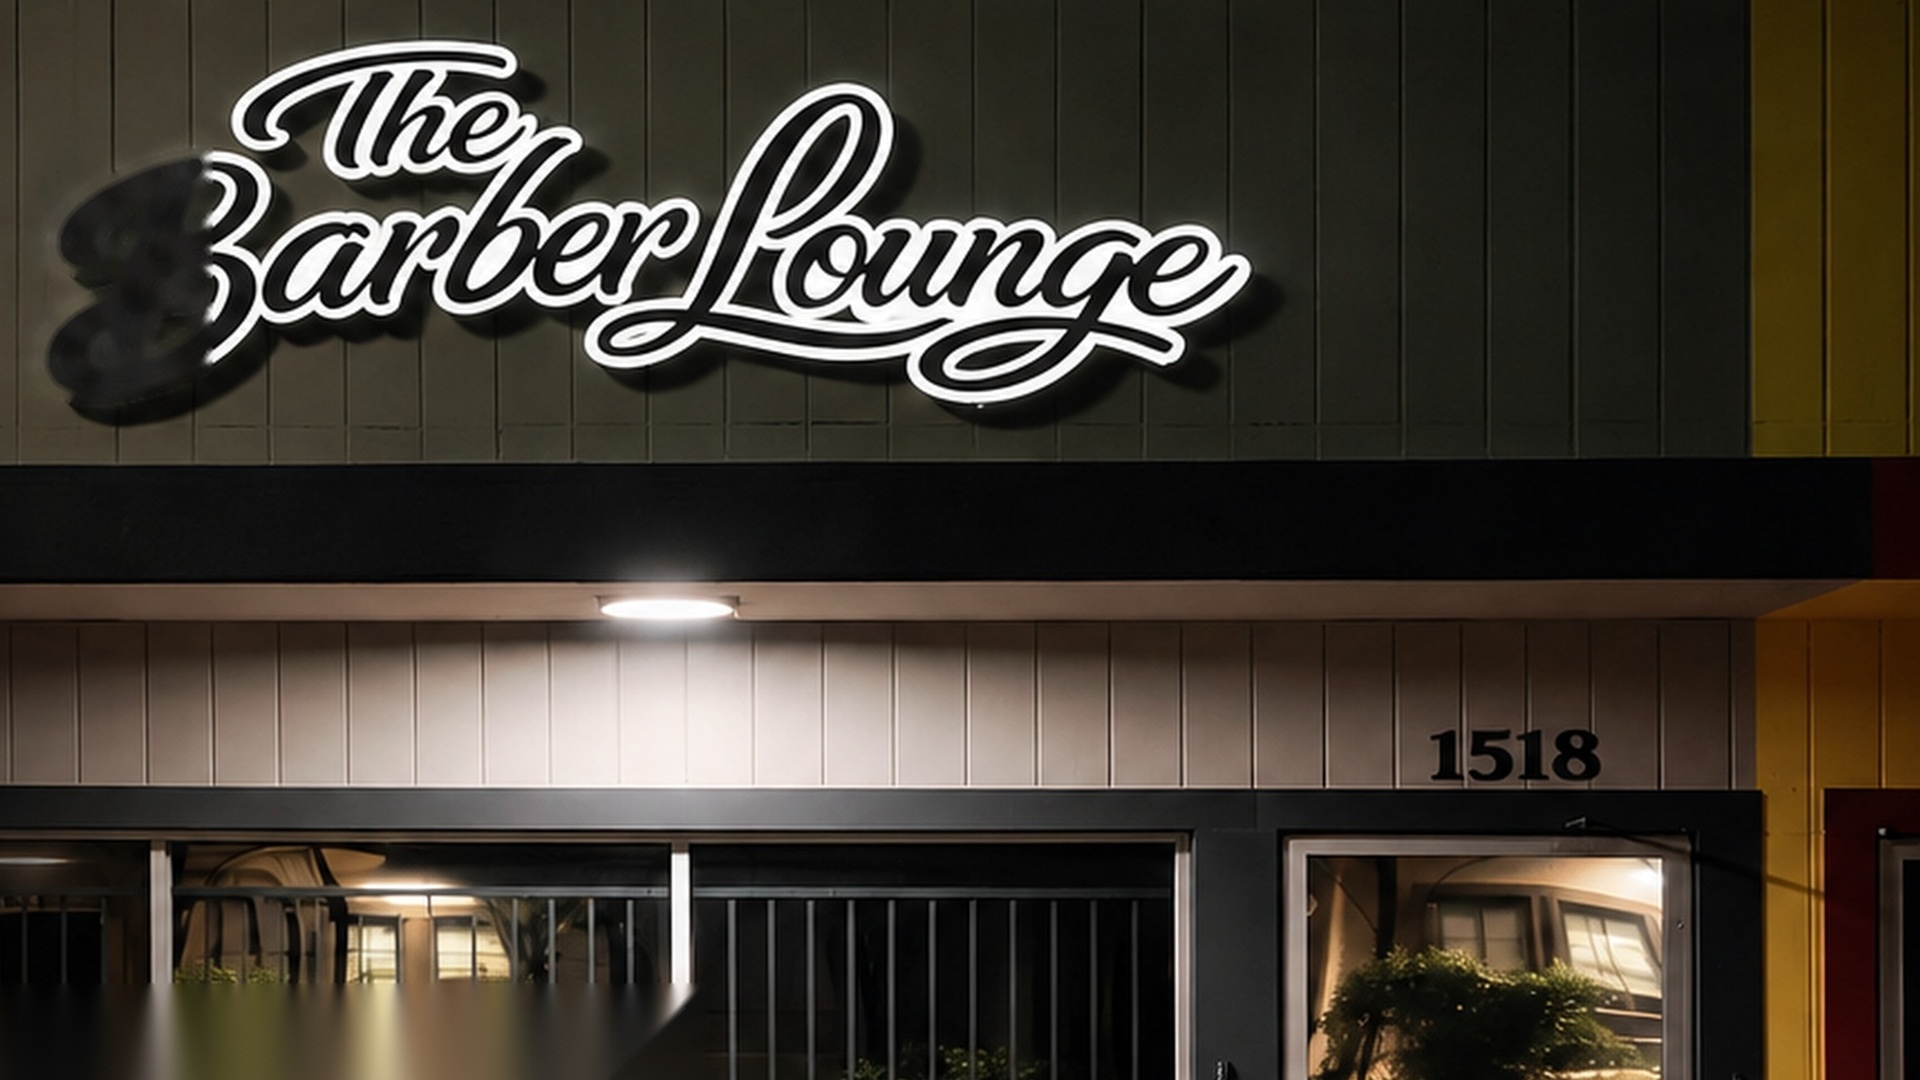
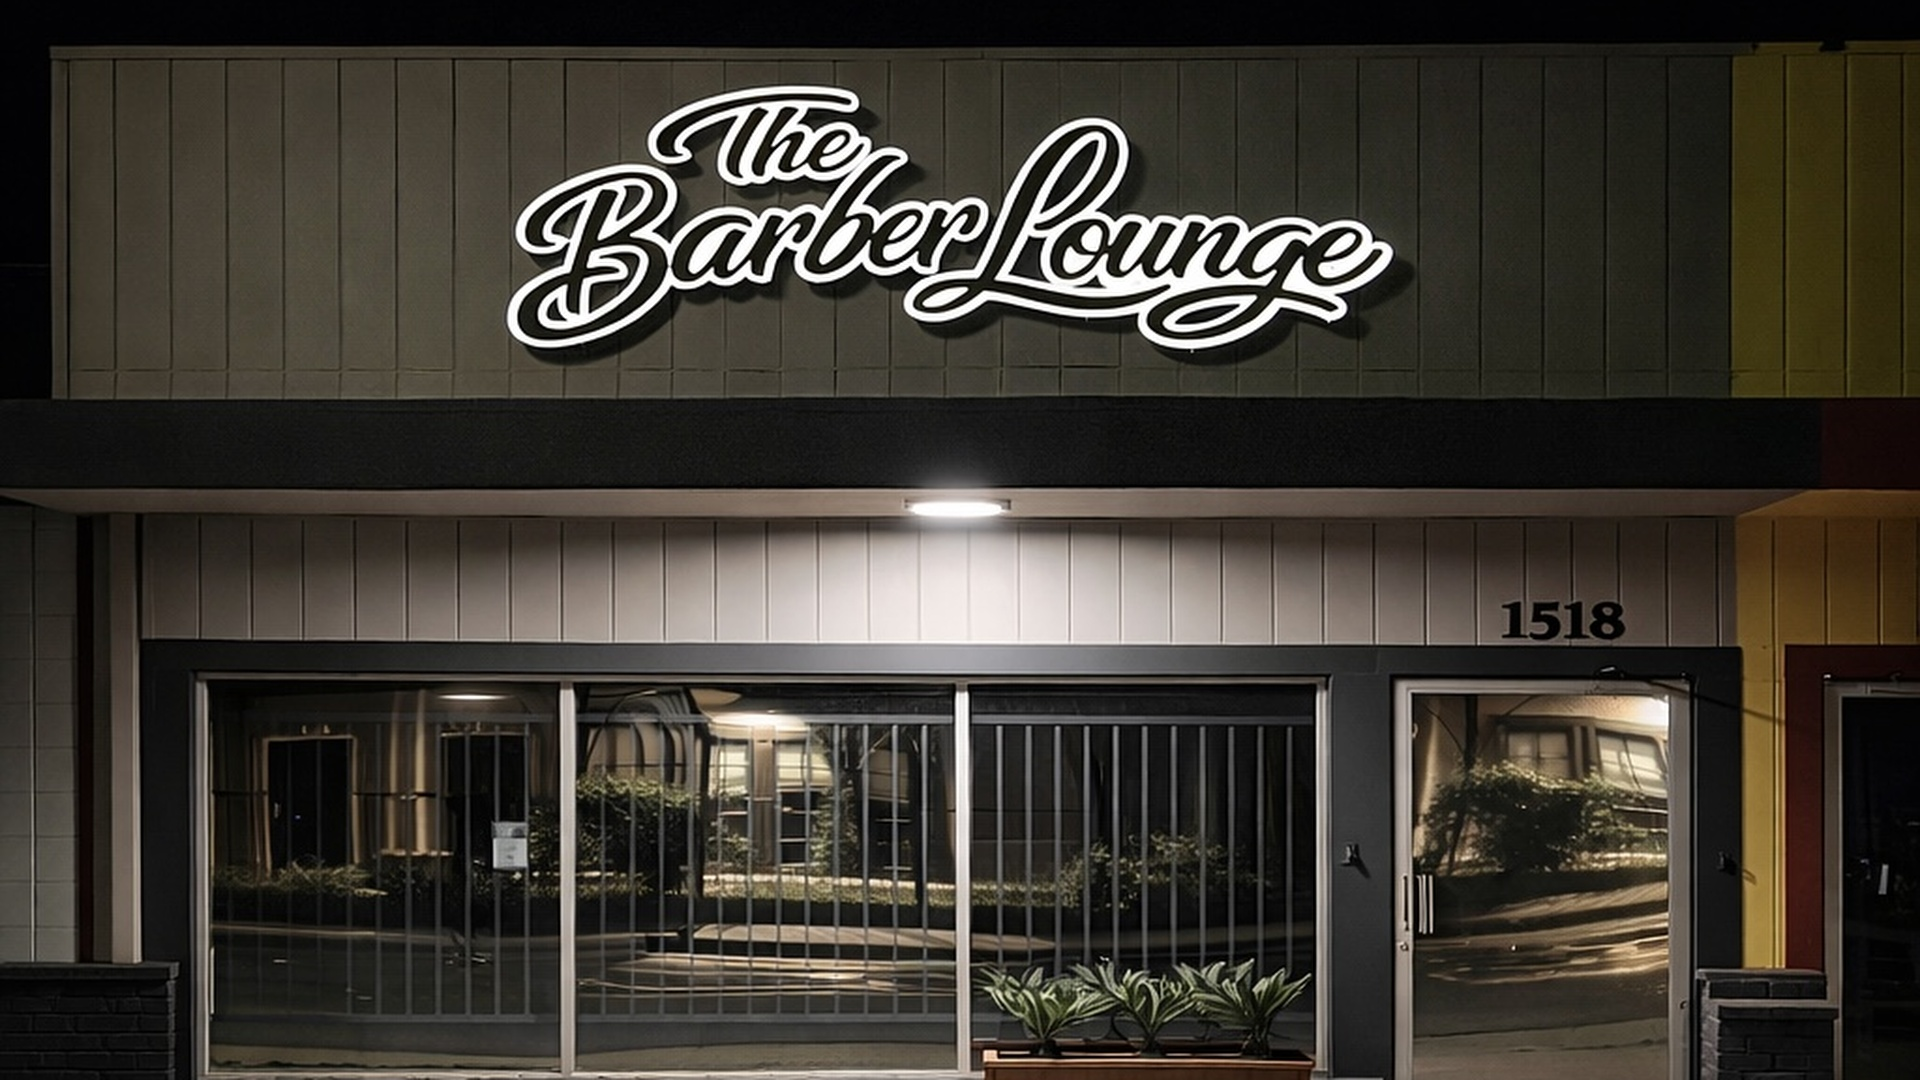
Swap hero to clean original night storefront photo
Replace the mockup crop with Cesar’s clear storefront shot and keep
the other shop originals under public/gallery/shop for later sections.

diff --git a/src/components/CinematicHero.tsx b/src/components/CinematicHero.tsx
@@ -32,7 +32,7 @@ export function CinematicHero({
       */}
       <div className="relative aspect-[16/9] w-full md:absolute md:inset-0 md:aspect-auto">
         <Image
-          src="/gallery/storefront-night.jpg?v=4"
+          src="/gallery/storefront-night.jpg?v=5"
           alt="The Barber Lounge storefront at night — 1518 A St, Antioch, CA"
           fill
           priority
